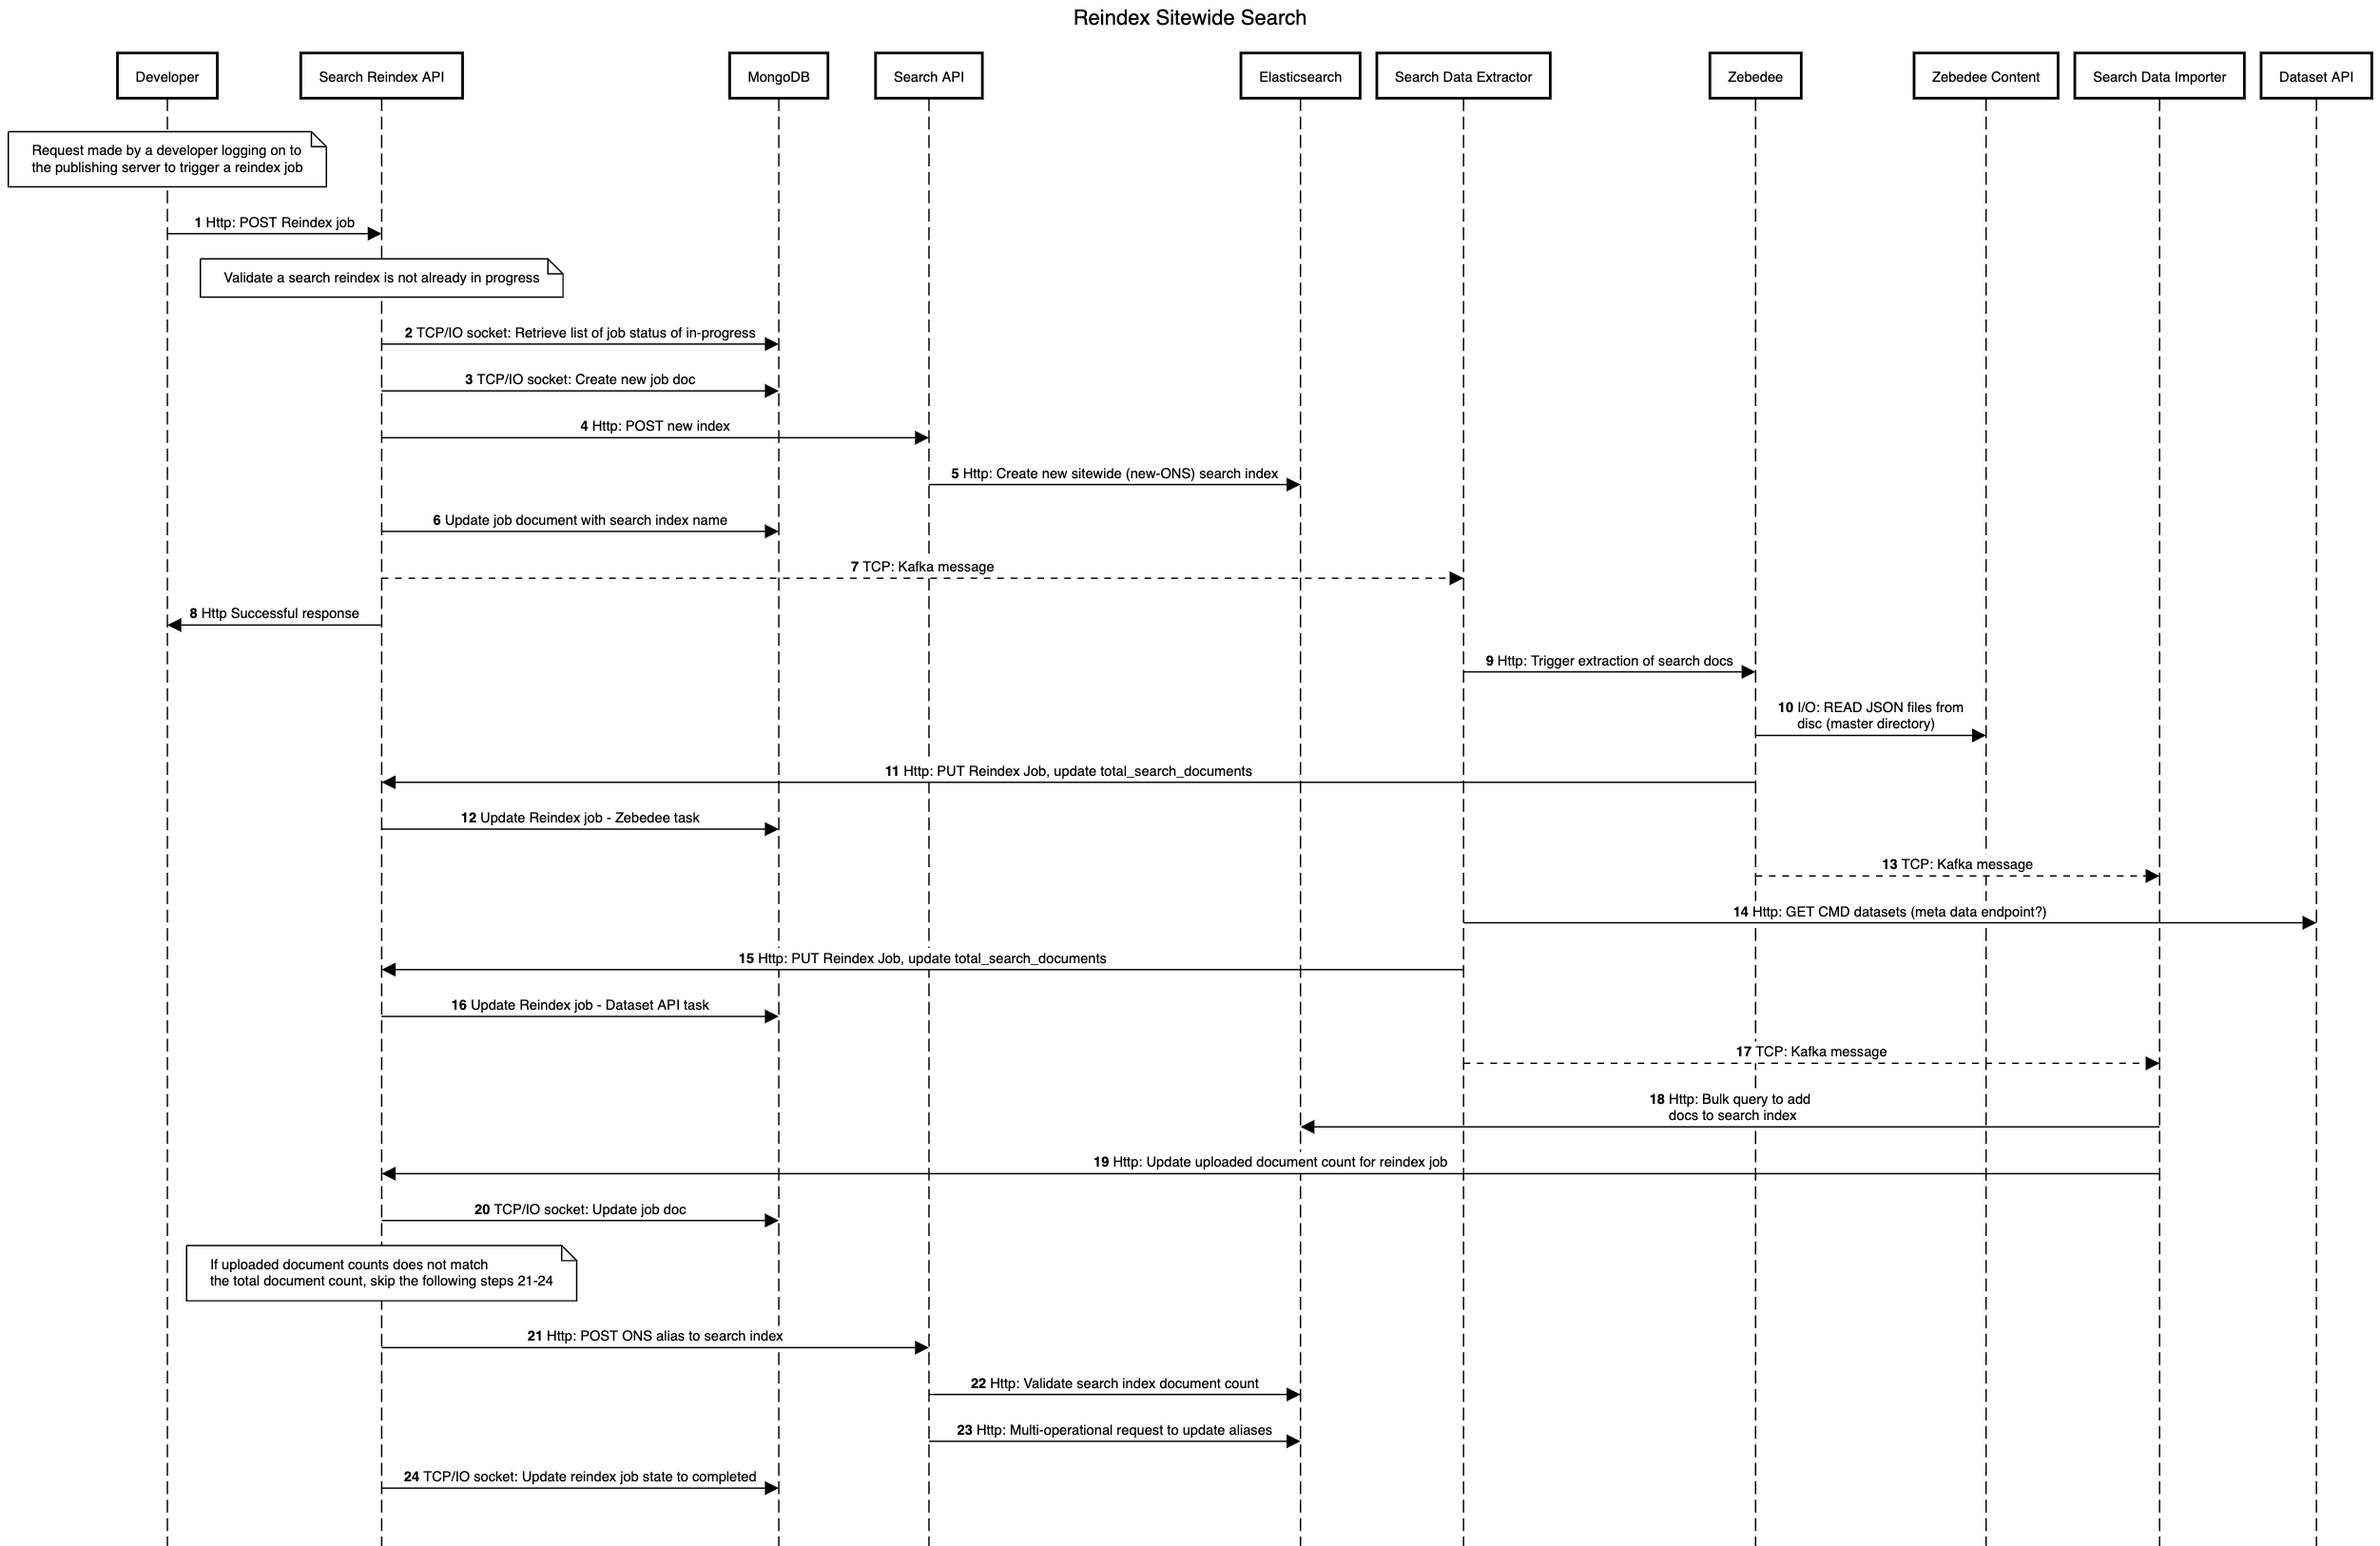
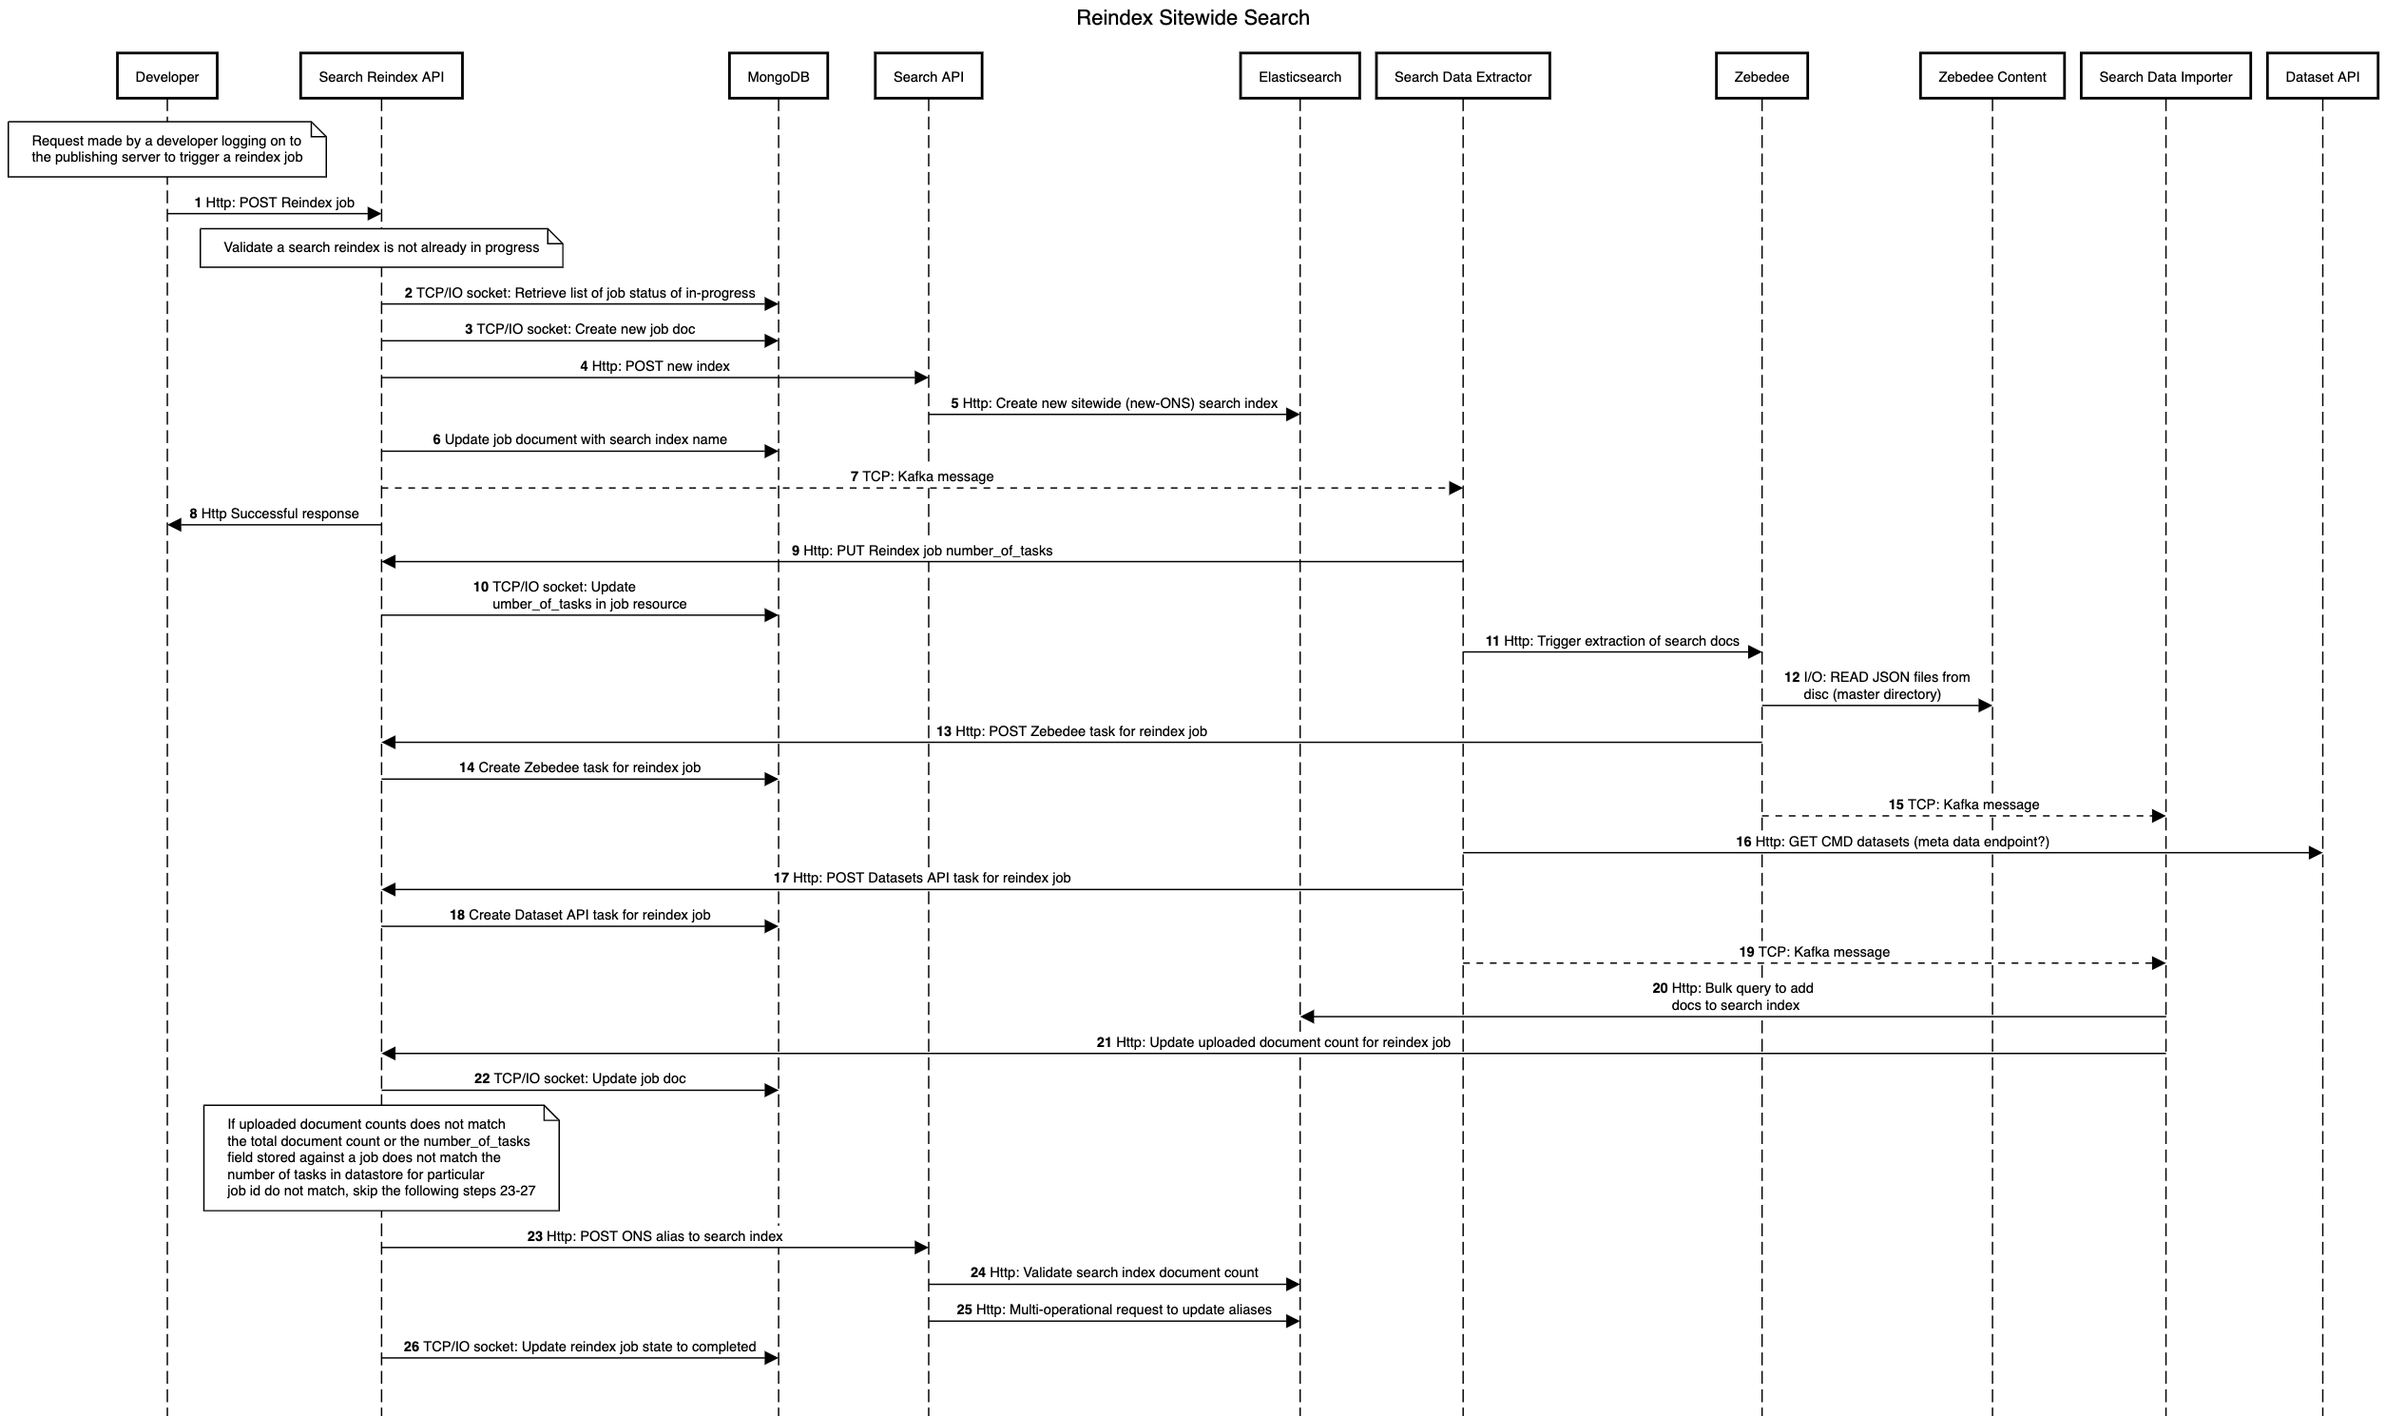
Update sequence diagram and doc for reindex search data flow

diff --git a/README.md b/README.md
@@ -114,9 +114,7 @@ See [Bulk API](https://www.elastic.co/guide/en/elasticsearch/reference/current/d
 **1: Http POST Reindex job**
 
 ```
-Datastore: elasticsearch
-
-Path: /search-reindex/jobs
+Path: /jobs
 Path parameters: none
 Header: Authorization: Bearer <token>
 Body: none
@@ -152,10 +150,12 @@ BSON Document: {
     "id": string, // Generated unique id
     "last_updated": ISODate, // ISO8601 timestamp
     "links" : {
-        "self" : string // format: http://localhost:<PORT>/search-reindex/jobs/<id>
+        "self" : string, // format: http://localhost:<PORT>/jobs/<id>
+        "tasks": string, // format: http://localhost:<PORT>/jobs/<id>/tasks
     },
-    "reindex_started": ISODate, // ISO8601 timestamp
     "reindex_completed": ISODate, // Empty
+    "reindex_failed": ISODate, // Empty
+    "reindex_started": ISODate, // ISO8601 timestamp
     "search_index_name": string, // format: {ONS-<ISO8601 timestamp>}
     "state": string // set to in-progress
 }
@@ -217,26 +217,36 @@ Body: {
     "id": string, // unique id for job
     "last_updated": ISODate, // ISO8601 timestamp
     "links" : {
-        "self" : string // format: http://localhost:<PORT>/search-reindex/jobs/<id>
+        "self" : string // format: http://localhost:<PORT>/jobs/<id>
+        "tasks": string // format: http://localhost:<PORT>/jobs/<id>/tasks
     },
     "reindex_started": ISODate, // ISO8601 timestamp
     "search_index_name": string, // format: {ONS-<ISO8601 timestamp>}
     "state": string // set to in-progress
-    "import_task": {
-        "datasets_api": {
-            "count": integer,
-            "state": string // Enum, set to created
-        },
-        "zebedee": {
-            "count": integer,
-            "state": string // Enum, set to created
-        }
-    },
     "total_search_documents": integer
 }
 ```
 
-**9: Trigger extraction of search docs**
+**9: Update Reindex job - number_of_tasks**
+
+```
+Method: PUT
+Path: /jobs/{id}/number_of_tasks/{count}
+```
+
+**10: Update job doc in mongoDB with number_of_tasks**
+
+```
+Datastore: mongoDB
+Database: search
+Collection: jobs
+
+BSON Document: {
+    "number_of_tasks": integer
+}
+```
+
+**11: Trigger extraction of search docs**
 
 Trigger Zebedee to retrieve all searchable documents via it's API, it should extract the data from master folder as we are only interested in published data.
 
@@ -247,48 +257,76 @@ Method: POST
 Path: /search-content/reindex
 ```
 
-**10: Read JSON files from disc**
+**12: Read JSON files from disc**
 
 Read `data.json` files under master directory.
 
-**11: Update Reindex job with Zebedee searchable documents**
+**13: Create Zebedee Task for reindex job**
 
-Update sub document zebedee with count
+Create zebedee task
 
 ```
 API: Search Reindex
 
-Method: PUT
-Path: /search-reindex/jobs/{id}/tasks/{name of API}/{count}
+Method: POST
+Path: /jobs/{id}/tasks/{task}
+Body: {"number_of_documents": integer}
 ```
 
-where `name of API` is set to zebedee.
+where `task` is set to zebedee.
 
-**12: Update Reindex job - Zebedee task**
+```
+Status Code: 201
+Body: {
+    "job_id": string,
+    "last_updated": ISODate, // ISO8601 timestamp
+    "links" : {
+        "self" : string // format: http://localhost:<PORT>/jobs/<job_id>/tasks/
+        "job": string // format: http://localhost:<PORT>/jobs/<job_id>/tasks/<task>
+    },
+    "number_of_documents": integer,
+    "task": string // the API the task relates to, in this case zebedee
+}
+```
 
-Zebedee sub document updated with new count value.
+**14: Create Zebedee task in datastore**
 
-Add to the `total_search_documents` count for searchable content from Zebedee.
+Zebedee task created with number_of_documents set.
+
+```
+Datastore: mongoDB
+Database: search
+Collection: tasks
+Document Identifier: `job_id` and `task` fields
+
+BSON Document create: {
+    "job_id": string,
+    "last_updated": ISODate, // ISO8601 timestamp
+    "links" : {
+        "self" : string // format: http://localhost:<PORT>/jobs/<job_id>/tasks/
+        "job": string // format: http://localhost:<PORT>/jobs/<job_id>/tasks/<task>
+    },
+    "number_of_documents": integer,
+    "task": string // the API the task relates to, in this case zebedee
+}
+```
+
+Also update the reindex job, add the `number_of_documents`
+for Zebedee task to the existing `total_search_documents` count.
 
 ```
 Datastore: mongoDB
 Database: search
 Collection: jobs
-Document Identifier (id): job.id
+Document Identifier (id): job_id
 
 BSON Document update: {
     "last_updated": ISODate, // ISO8601 timestamp
-    "import_tasks": {
-        "zebedee": {
-            "count": integer,
-            "state": string // This should be set to in-progress if count is not equal to 0
-        },
-    },
     "total_search_documents": integer
 }
 ```
 
-**13: Send Kafka messages**
+**15: Send Kafka messages**
 
 For each data type stored against Zebedee send a message to kafka topic.
 
@@ -313,7 +351,7 @@ Record: {
 }
 ```
 
-**14: Retrieve list of datasets from Dataset API**
+**16: Retrieve list of datasets from Dataset API**
 
 Call Dataset API to retrieve a count of the number of (cmd) datasets as well as a list of datasets.
 
@@ -322,42 +360,72 @@ Method: GET
 Path: /datasets?state=published
 ```
 
-**15: Update Reindex job with total_search_documents**
+**17: Create Dataset API Task for reindex job**
 
-Add to the `total_search_documents` count for searchable content from dataset API.
+Create Dataset API task
 
 ```
 API: Search Reindex
 
-Method: PUT
-Path: /search-reindex/jobs/{id}/total-search-documents/{count}
+Method: POST
+Path: /jobs/{id}/tasks/{task}
+Body: {"number_of_documents": integer}
 ```
 
-**16: Update Reindex job - Dataset API task**
+where `task` is set to dataset-api.
 
-Dataset API sub document updated with new count value.
+```
+Status Code: 201
+Body: {
+    "job_id": string,
+    "last_updated": ISODate, // ISO8601 timestamp
+    "links" : {
+        "self" : string // format: http://localhost:<PORT>/jobs/<job_id>/tasks/
+        "job": string // format: http://localhost:<PORT>/jobs/<job_id>/tasks/<task>
+    },
+    "number_of_documents": integer,
+    "task": string // the API the task relates to, in this case dataset-api
+}
+```
 
-Add to the `total_search_documents` count for searchable content from Dataset API.
+**18: Create Dataset API task in datastore**
+
+Dataset API task created with number_of_documents set.
+
+```
+Datastore: mongoDB
+Database: search
+Collection: tasks
+Document Identifier: `job_id` and `task` fields
+
+BSON Document create: {
+    "job_id": string,
+    "last_updated": ISODate, // ISO8601 timestamp
+    "links" : {
+        "self" : string // format: http://localhost:<PORT>/jobs/<job_id>/tasks/
+        "job": string // format: http://localhost:<PORT>/jobs/<job_id>/tasks/<task>
+    },
+    "number_of_documents": integer,
+    "task": string // the API the task relates to, in this case zebedee
+}
+```
+
+Also update the reindex job, add the `number_of_documents`
+for dataset API task to the existing `total_search_documents` count.
 
 ```
 Datastore: mongoDB
 Database: search
 Collection: jobs
-Document Identifier (id): job.id
+Document Identifier (id): job_id
 
 BSON Document update: {
     "last_updated": ISODate, // ISO8601 timestamp
-    "import_tasks": {
-        "dataset_api": {
-            "count": integer,
-            "state": string // This should be set to in-progress if count is not equal to 0
-        },
-    },
     "total_search_documents": integer
 }
 ```
 
-**17: Send Kafka messages**
+**19: Send Kafka messages**
 
 For each dataset doc send a message to kafka topic 
 
@@ -382,7 +450,7 @@ Record: {
 }
 ```
 
-**18 Bulk query to add docs to search index**
+**20: Bulk query to add docs to search index**
 
 Documents received via consumption of kafka topic `search-data-import`, store documents in memory until 500 messages consumed or time from first 
 message exceeded 5 seconds before making bulk request. 5 second limit will allow for the last set of messages to still be reindexed.
@@ -398,14 +466,18 @@ Body: Depends on data type
 
 See [Bulk API](https://www.elastic.co/guide/en/elasticsearch/reference/current/docs-bulk.html)
 
-**19: Update uploaded document count for reindex job**
+Extension to handle failure scenarios:
+
+If bulk request fails then we should requeue events consumed with an additional attempts field. Once an event has failed more than 3 attempts, we should send request to reindex API to update state to failed and not requeue event. (Design needs to be thought through - should we be using a new kafka topic to handle these events?)
+
+**21: Update uploaded document count for reindex job**
 
 ```
 Method: PUT 
-Path: /search-reindex/jobs/{id}/inserted-documents/{count}
+Path: /jobs/{id}/inserted-documents/{count}
 ```
 
-**20 Update job doc**
+**22: Update job doc**
 
 ```
 Datastore: mongoDB
@@ -414,15 +486,16 @@ Collection: jobs
 Document Identifier (id): job.id
 
 BSON Document update: {
+    "last_updated": ISODate, // ISO8601 timestamp
     "total_inserted_search_documents": integer
 }
 ```
 
 *Note: When updating the count, this should be adding to the current value*
 
-Check counts match: `"total_inserted_search_documents" is equal to "total_search_documents"` and all import tasks are in a state of `in-progress`
+Check counts match: `"total_inserted_search_documents" is equal to "total_search_documents"` and `number_of_tasks` is equal to the number of tasks returned requesting a list of tasks for particular job id in datastore
 
-**21 POST ONS alias to search index**
+**23: POST ONS alias to search index**
 
 Call elasticsearch to check the index count matches the `total_search_documents` value.
 
@@ -433,7 +506,7 @@ Method: POST
 Path: /search/{index}/alias
 ```
 
-**22 Validate search index document count**
+**24: Validate search index document count**
 
 Call elasticsearch to check the index count matches the `total_search_documents` value.
 
@@ -446,7 +519,7 @@ Path: /{index}/_count
 
 Wait before making a new request (attempt) to a maximum of 3?
 
-**23 Multi-operational request to update aliases**
+**25: Multi-operational request to update aliases**
 
 See [index alias API](https://www.elastic.co/guide/en/elasticsearch/reference/current/indices-aliases.html) to see how this is done
 
@@ -468,7 +541,7 @@ Body: {
 Note: alias `new-ONS` may not be needed in performing a reindex, it may just be less cumbersome and more obvious to a developer to use
 new-ONS and ONS to refer to the new index and an existing index respectively instead of the index name (e.g. comparing 2 ONS-<datetime> values).
 
-**24 Update Reindex job state to completed**
+**26: Update Reindex job state to completed**
 
 ```
 Datastore: mongoDB
@@ -478,14 +551,6 @@ Document Identifier (id): job.id
 
 BSON Document update: {
     "last_updated": ISODate, // ISO8601 timestamp
-    "import_tasks": {
-        "zebedee": {
-            "state": "completed"
-        },
-        "dataset_api": {
-            "state": "completed"
-        },
-    },
     "reindex_completed": ISODate,
     "state": "completed"
 }
@@ -493,4 +558,30 @@ BSON Document update: {
 
 **Note**
 
-If the reindex job fails, we should be updating the job document accordingly with a `"reindex_failed": ISODate, "state": "failed"` and corresponding updates to the tasks.
+If the reindex job fails, we should be updating the job document accordingly with a `"reindex_failed": ISODate, "state": "failed"`.
+
+Use the following PUT endpoint on Search Reindex API:
+
+Update Reindex Job state to failed
+
+```
+API: Search Reindex
+
+Method: PUT
+Path: /jobs/{id}/state/{state} // where state is set to "failed"
+```
+
+Search Reindex API -> datastore
+
+```
+Datastore: mongoDB
+Database: search
+Collection: jobs
+Document Identifier (id): job.id
+
+BSON Document update: {
+    "last_updated": ISODate, // ISO8601 timestamp
+    "reindex_failed": ISODate,
+    "state": "failed"
+}
+```
